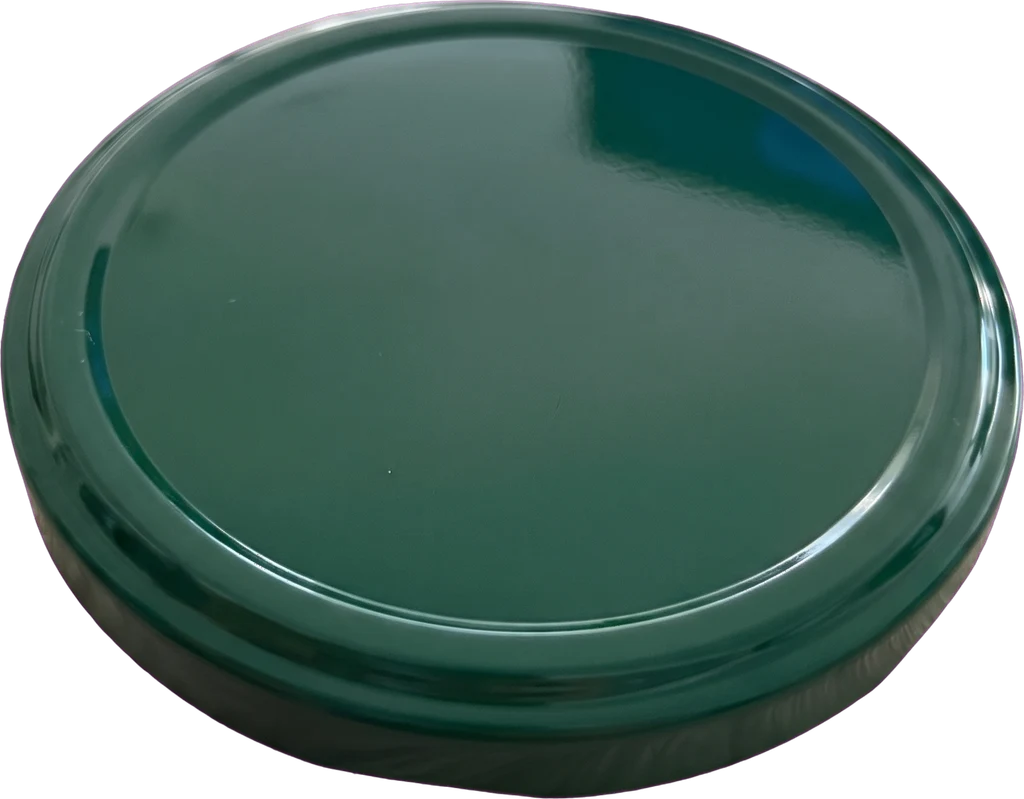
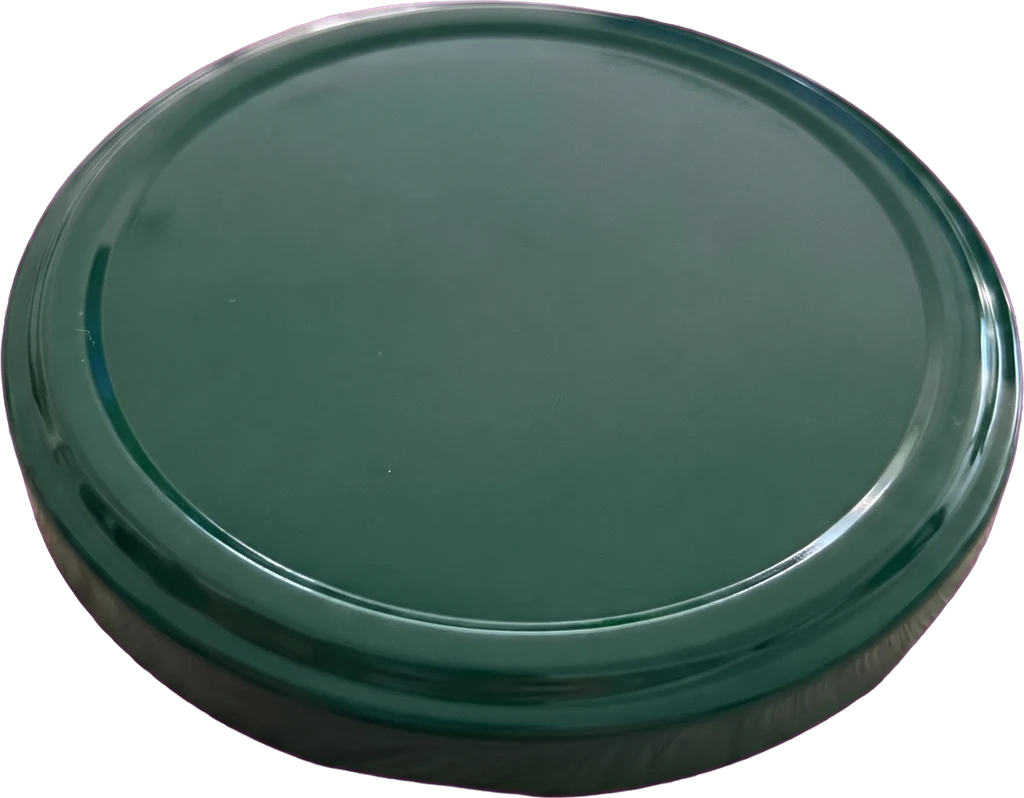
feat(web): Yop-Yop block on the brands page, green lid without glare
Client, 13 Nov: the hero Twist-Off loses the window reflection, and Yop-Yop
gets a block packshot like the other lines, made from the client label.

diff --git a/apps/web/src/lib/site.ts b/apps/web/src/lib/site.ts
@@ -114,6 +114,8 @@ export const TUBE_V2 = {
   skoMechta: tubeV2("sko-mechta", 528),
   twistGreen: tubeV2("twist-green", 560),
   twistRed: tubeV2("twist-red", 567),
+  /** Nano Banana 2.1 from the client label (chat, 13 Nov) and the Rosa block; master in assets/generated/client-2026-11-13/. */
+  yopYop: tubeV2("yop-yop", 569),
 } satisfies Record<string, Img>;
 
 export const TUBE = {
@@ -137,8 +139,8 @@ export const LID_CUTOUT = {
   twistGreenTop: { src: "/images/lids/twist-green-top-cutout.webp", width: 677, height: 690 },
   /** Hero rings (client photo of 13 Nov), background removed with Nano Banana 2.1, master in assets/generated/client-2026-11-13/. */
   ringsHero: { src: "/images/lids/rings-hero-v2-cut.webp", width: 1024, height: 563 },
-  /** Hero step 2 (client, 13 Nov: green instead of red): client photo, background removed with Nano Banana 2.1. */
-  twistGreenHero: { src: "/images/lids/twist-green-hero-cut.webp", width: 1024, height: 799 },
+  /** Hero step 2 (client, 13 Nov: green instead of red, no glare): client photo, background and window glare removed with Nano Banana 2.1. */
+  twistGreenHero: { src: "/images/lids/twist-green-hero-cut.webp", width: 1024, height: 798 },
 } satisfies Record<string, Img>;
 
 /** Lid photos on white (800 px), for white product panels. */

diff --git a/apps/web/src/app/[locale]/brands/page.tsx b/apps/web/src/app/[locale]/brands/page.tsx
@@ -31,8 +31,7 @@ const BRANDS: Brand[] = [
   { key: "gurman", specs: ["tube", "group", "designs", "rest"], images: [TUBE_V2.gurmanFamily, TUBE_V2.gurmanG] },
   { key: "moya", specs: ["metal", "outer", "inner", "top", "inks", "pack"], images: [TUBE_V2.moyaMechta] },
   { key: "rosa", specs: ["metal", "outer", "inner", "top", "inks", "pack"], images: [TUBE_V2.rosa] },
-  // TODO(client): the Yop-Yop tube photo (the label was sent in chat, 11 Nov; no file in the repo yet)
-  { key: "yopyop", specs: ["types", "tube", "group"], images: [], noSlogan: true },
+  { key: "yopyop", specs: ["types", "tube", "group"], images: [TUBE_V2.yopYop], noSlogan: true },
 ];
 
 export default async function BrandsPage({ params }: Props) {

diff --git a/LICENSES.md b/LICENSES.md
@@ -36,7 +36,8 @@ Made on the client's Higgsfield account (plan Lite); per Higgsfield terms, outpu
 | `apps/web/public/images/tubes/v2/*.webp` (7 tubes) | GPT Image 2.5 high, 2K | client tube photos in `apps/web/public/images/tubes/` | fine print the model invented (a Russian producer, an Ivanovo address, a GOST number, a slogan) removed by Nano Banana inpaint + local blend; label brand text unchanged |
 | `apps/web/public/images/brand/mechta-khozyayki-v2-*.webp` | GPT Image 2.5 high, 2K, transparent | old-site `logo.png` (260×150) | trimmed; a redraw of the client's own wordmark, a vector master is still TODO(client) |
 | `apps/web/public/images/lids/live/*.webp` (SKO, Twist-off red/green, rings; 14 views, 2026-10-27) | GPT Image 2.5: low on chroma green/blue, high/medium on transparent | `lids/sko-34`, `lids/twist-{red,green}-34`, `photos/rings` (all client-derived) | backdrop keyed out and trimmed locally (sharp); no text on the objects |
-| `apps/web/public/images/lids/twist-green-hero-cut.webp`, `lids/rings-hero-v2-cut.webp` (2026-11-13) | Nano Banana 2.1, 2K, on flat magenta | client photos of a green Twist-Off lid and a wikel ring (chat, 13 Nov) | magenta keyed out, despilled and trimmed locally (sharp); masters in `assets/generated/client-2026-11-13/` |
+| `apps/web/public/images/lids/twist-green-hero-cut.webp`, `lids/rings-hero-v2-cut.webp` (2026-11-13) | Nano Banana 2.1, 2K, on flat magenta; the lid also had its window glare removed | client photos of a green Twist-Off lid and a wikel ring (chat, 13 Nov) | magenta keyed out, despilled and trimmed locally (sharp); masters in `assets/generated/client-2026-11-13/` |
+| `apps/web/public/images/tubes/v2/yop-yop-{600,1200}.webp` (2026-11-13) | Nano Banana 2.1, 2K | client Yop-Yop label (chat, 13 Nov; the .cdr master stays with the client) + our Rosa block as the shape reference | trimmed locally; the model re-drew the label fine print, which is not legible at site size; master in `assets/generated/client-2026-11-13/` |
 | `apps/web/public/images/photos/tubes-elisey-cut.webp` | Higgsfield background remover | client photo `photos/tubes-elisey.webp` | trimmed |
 | `apps/web/public/images/partners/cut/*.webp` (7 partner logos, 2026-10-28) | none (local edit) | `images/partners/*.webp` (client-approved use, see above) | white ground keyed out and trimmed locally (sharp); logo artwork unchanged |
 Masters (PNG) live in `assets/generated/` (git-ignored).
